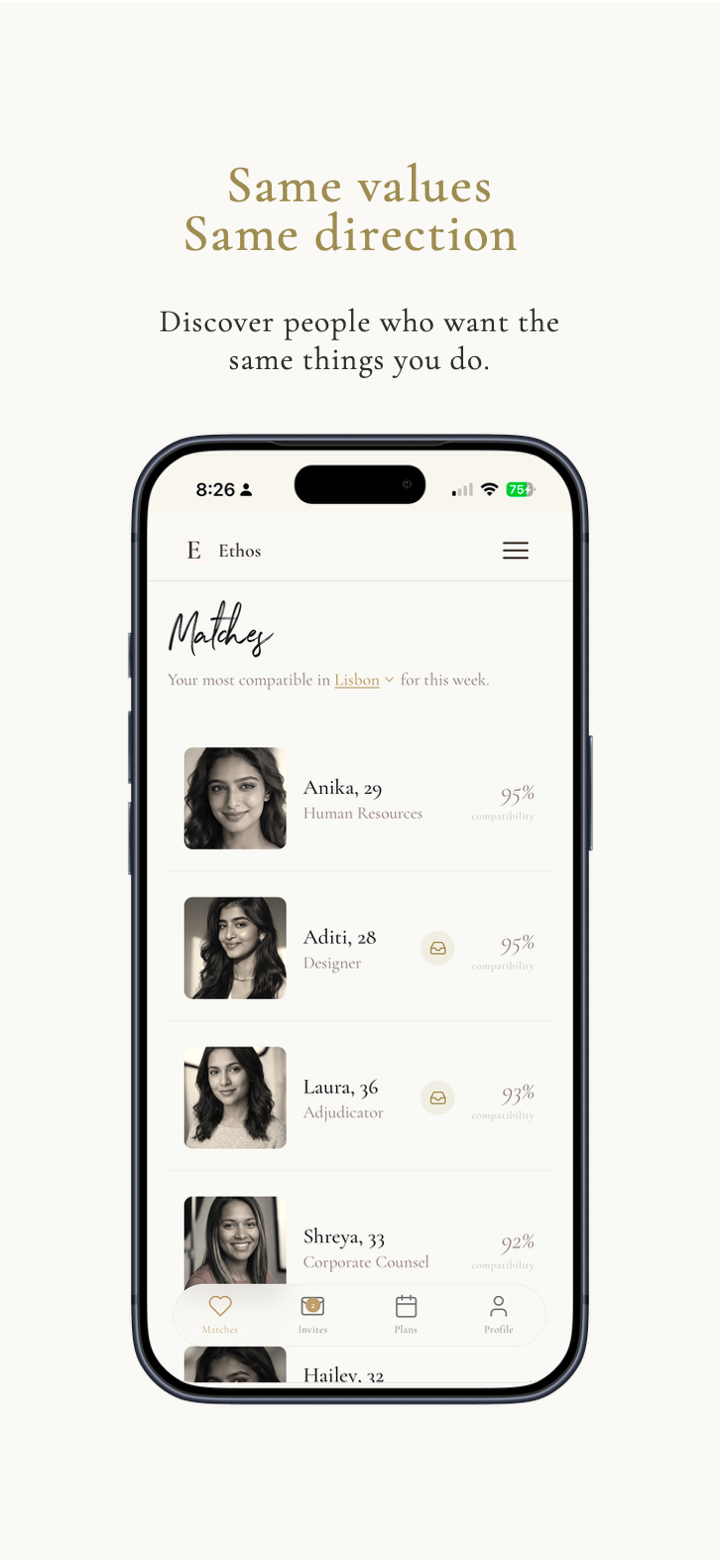
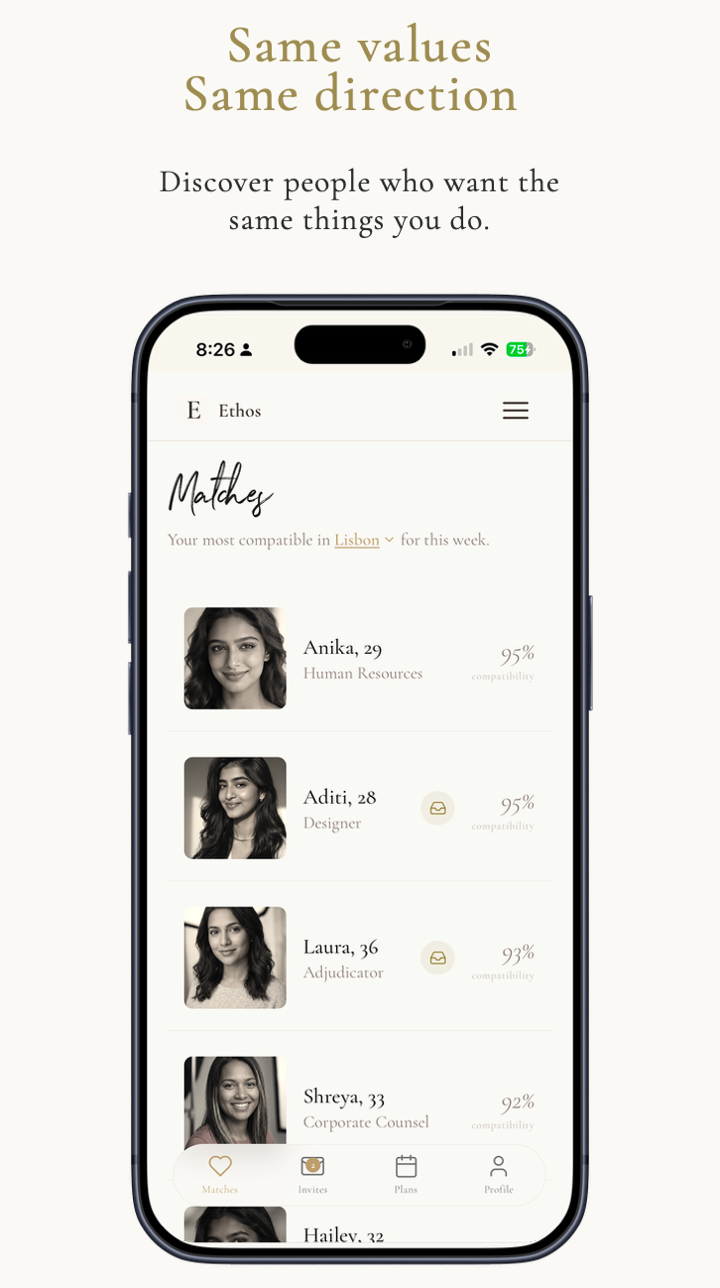
Trim baked-in cream margins from feature slides; show full images top-aligned
Crop empty top/bottom whitespace from slide2/3/4/6 PNGs and switch feature
images to natural height, top-aligned, no top padding — so phones move up
and aren't cropped. Originals kept locally in assets/app/_orig (untracked).

diff --git a/download/index.html b/download/index.html
@@ -1755,15 +1755,15 @@
     .sb-avatar { width:2.4rem; height:2.4rem; border-radius:50%; background:var(--color-cream); border:1px solid var(--color-gold); display:flex; align-items:center; justify-content:center; font-family:var(--font-serif); color:var(--color-gold); font-size:.9rem; }
     .sb-tname { font-family:var(--font-sans); font-size:.9rem; color:var(--color-text-light); }
     .sb-note { text-align:center; font-family:var(--font-sans); font-size:.8rem; color:var(--color-text-light); opacity:.65; margin-top:1.5rem; }
-    .sb-feat { display:grid; grid-template-columns:1fr 1fr; gap:0 4rem; align-items:end; max-width:1000px; margin:0 auto; padding:1.25rem 0 0; border-bottom:1px solid rgba(181,161,120,.6); }
+    .sb-feat { display:grid; grid-template-columns:1fr 1fr; gap:0 4rem; align-items:start; max-width:1000px; margin:0 auto; padding:0; border-bottom:1px solid rgba(181,161,120,.6); }
     .sb-feat:nth-child(even) .sb-feat-text { order:2; }
     .sb-gb { color: var(--color-gold); }
     .sb-feat h3 { font-family:var(--font-serif); font-size:1.7rem; font-weight:600; color:var(--color-text); margin:0 0 .5rem; }
     .sb-feat .sb-fsub { font-family:var(--font-sans); font-weight:600; color:var(--color-text); margin:0 0 .5rem; }
     .sb-feat p { font-family:var(--font-sans); color:var(--color-text-light); margin:0; line-height:1.6; }
     .sb-visual { aspect-ratio:4/3; border-radius:16px; background:var(--color-card); border:1px dashed var(--color-gold); display:flex; align-items:center; justify-content:center; text-align:center; font-family:var(--font-sans); font-size:.85rem; color:var(--color-text-light); padding:1rem; }
-    .sb-shot { padding:0; border:none; background:transparent; aspect-ratio:1/1; overflow:hidden; border-radius:16px; }
-    .sb-shot img { width:100%; height:100%; object-fit:cover; object-position:top; display:block; }
+    .sb-shot { padding:0; border:none; background:transparent; border-radius:16px; align-self:start; }
+    .sb-shot img { width:100%; height:auto; display:block; border-radius:16px; }
     #features .sb-feat:last-child { border-bottom:none; }
     .sb-about { max-width:720px; margin:0 auto; }
     .sb-about-photo { aspect-ratio:1/1; border-radius:16px; background:var(--color-card); border:1px dashed var(--color-gold); display:flex; align-items:center; justify-content:center; text-align:center; font-family:var(--font-sans); font-size:.85rem; color:var(--color-text-light); padding:1rem; }
